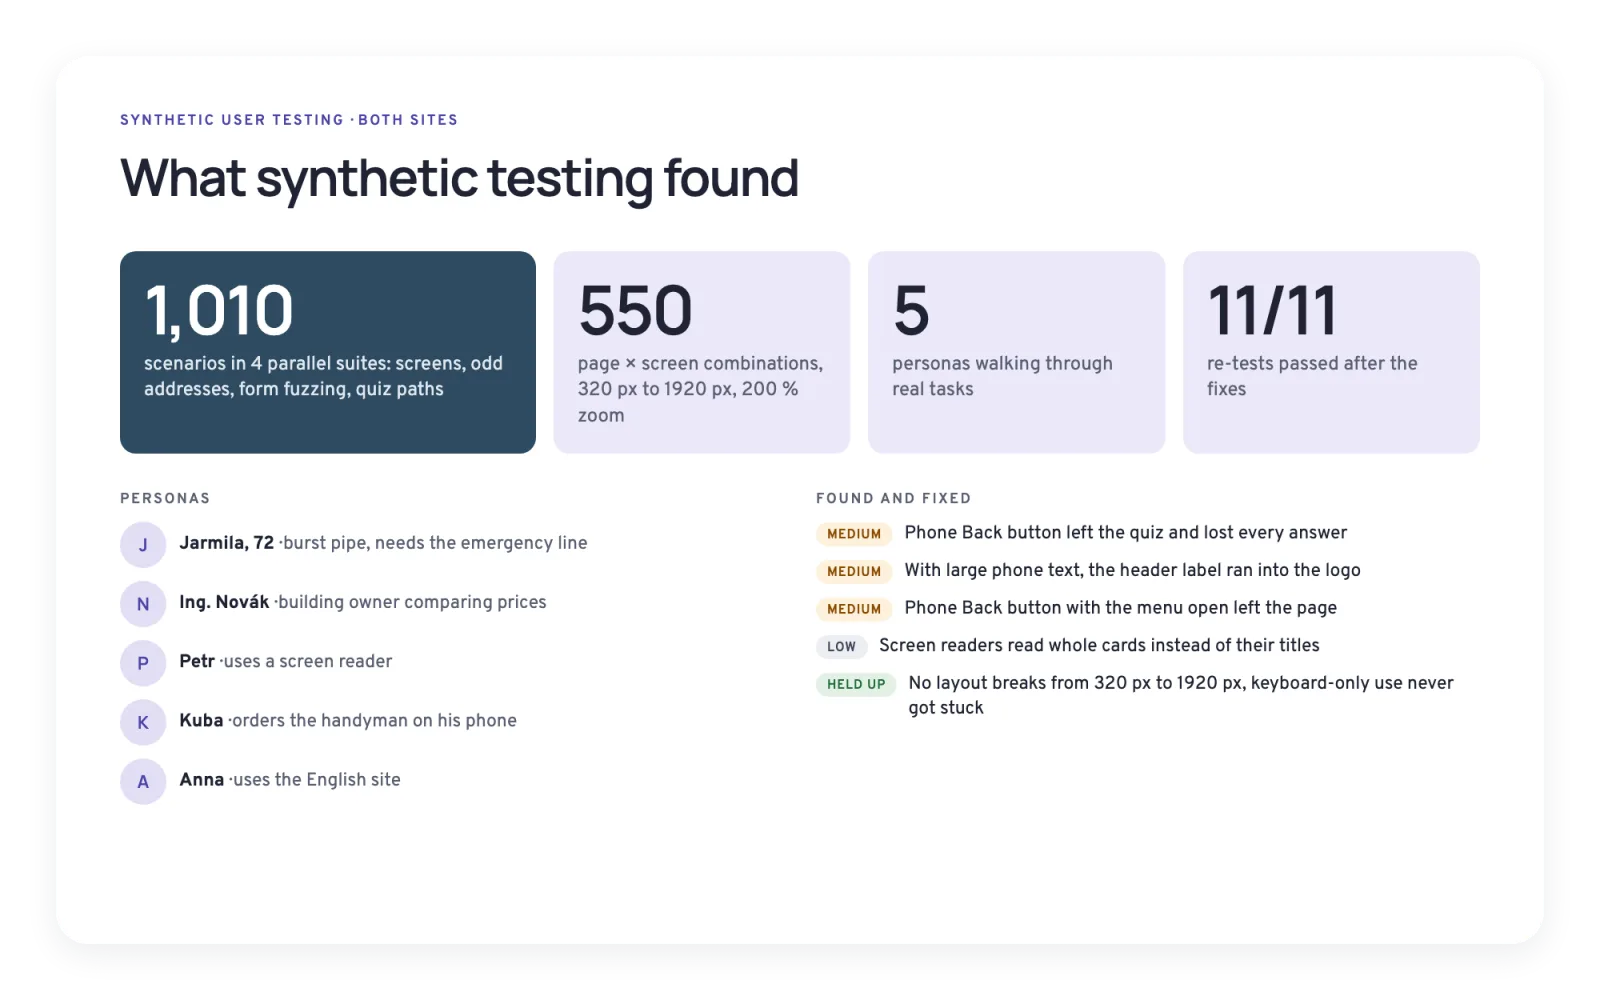
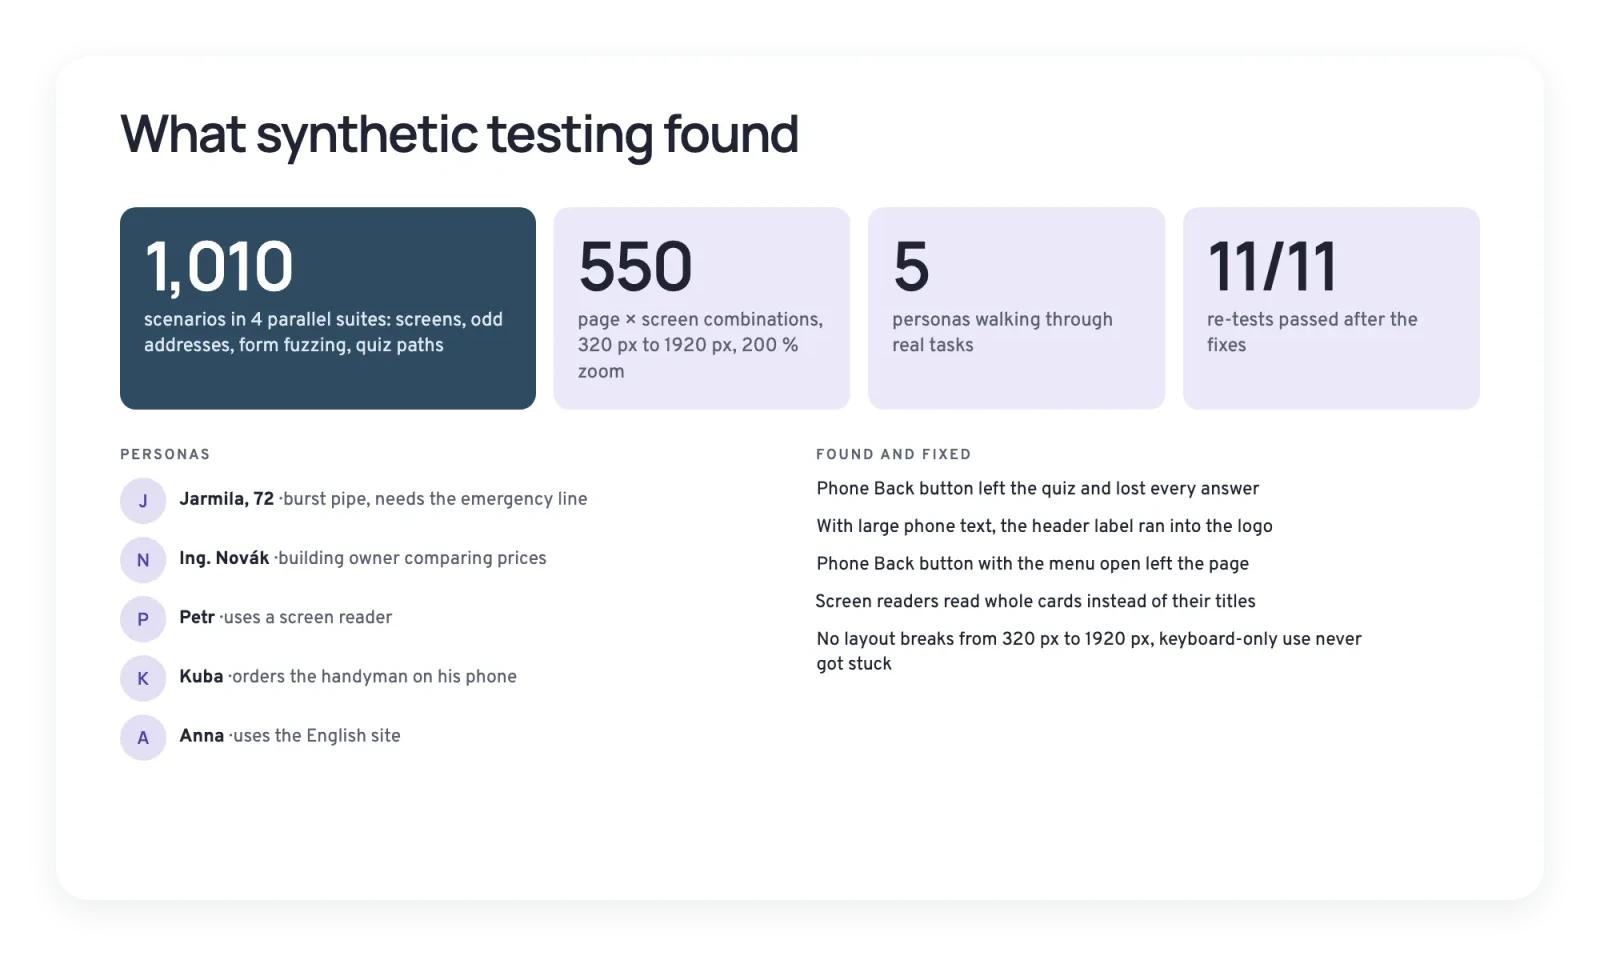
Midoma case study edits, full-size diagrams, wide images at one width
- Midoma: shorter headings, users as their own section, duration "10 days (a rebuild)",
  DOMSYS explained, the logo after the "logo had to stay" line, shorter user-flow intro,
  testing paragraph, heading and AI-picks list removed (the picture says it)
- Testing picture: no severity tags, no eyebrow
- Wide diagrams open at full size on click (click, Esc or Close closes)
- Landscape images in the wide area all fill its full width

diff --git a/src/data/caseStudyContent.ts b/src/data/caseStudyContent.ts
@@ -345,7 +345,7 @@ export const caseStudies: CaseStudy[] = [
       'Midoma is a growing Prague property company with plans to expand into new branches. It needed a website for property owners (midoma.cz), a portal for tenants, and a design system that keeps every future part of the brand consistent, even when new designers join.',
     year: '2026',
     role: 'Solo: UX, design system and development, with Claude Code',
-    duration: '10 days',
+    duration: '10 days (a rebuild)',
     tools: ['Figma', 'Claude Code', 'Astro', 'React', 'Tailwind'],
     heroImage: '/work/images/midoma-hero.webp',
     hero: {
@@ -379,7 +379,6 @@ export const caseStudies: CaseStudy[] = [
         paragraphs: [
           'Midoma used to be called SolidHomes. I created its brand and built its first website in WordPress in 2023, early in my UX journey, which you can read about in the [SolidHomes case study](/work/solidhomes). That website had become a problem. Over time it stopped looking professional, and it needed constant updates. The tipping point came when the company had to change its name because of competition. Instead of putting a new name on an old site, I decided to rebuild it from the ground up.',
           'I didn’t start from zero: I reused the user research, competitor research and stakeholder interviews I had done for the original website, and applied them with better design thinking, more refined skills and a much faster tech stack.',
-          'The website has two kinds of users. Owners of apartment buildings, often families, are choosing a company to trust with their property. Tenants of those buildings want to report a fault, find a phone number or read a notice, quickly. Many of them are older.',
           'I defined the design and business goals I wanted to achieve with the project:',
         ],
         bullets: [
@@ -389,11 +388,18 @@ export const caseStudies: CaseStudy[] = [
         images: ['/work/images/midoma-before-after.webp'],
       },
       {
+        heading: '2 kinds of users: tenants and owners',
+        paragraphs: [
+          'Owners of apartment buildings, often families, are choosing a company to trust with their property. Tenants of those buildings want to report a fault, find a phone number or read a notice, quickly. Many of them are older.',
+        ],
+      },
+      {
         chapter: { title: 'The design system', nav: 'Design system' },
-        heading: 'I started with foundations: every color named by its job',
+        heading: 'Foundations: colors are named by their jobs',
         paragraphs: [
           'One major design constraint I had to take into account was that the logo and its green had to stay. The structure and content of the old site were also working well, so I kept them and focused on the details.',
-          'I defined the basic building blocks: typography, colors and corners. Every color got one job and a name that says what it is, not how it looks: cta for the main action only, form for every form, emergency for emergencies only and tile-domsys for the DOMSYS tile only. This way a new designer knows where a color may go before using it.',
+          { type: 'image', src: '/work/images/midoma-logo-figure.webp', alt: 'The Midoma Správa logo: a green leaf with a white house, next to the name Midoma and the word Správa', small: true },
+          'I defined the basic building blocks: typography, colors and corners. Every color got one job and a name that says what it is, not how it looks: cta for the main action only, form for every form, emergency for emergencies only and tile-domsys for the DOMSYS tile only (DOMSYS is the app where tenants report faults, send requests and see their rent payments). This way a new designer knows where a color may go before using it.',
           { type: 'image', src: '/work/images/midoma-foundations-v2.webp', alt: 'Foundations sheet: Manrope for headings and Overpass for text with the type scale from 48 px page titles to 15 px small text, color swatches named by their job and grouped as brand (interactive, label, cta, text), one job each (form, domsys, emergency, text-secondary) and grounds and tiles (page, tile, tile-domsys, tile-emergency), and corner radii of 12, 20, 32 px and pill' },
         ],
       },
@@ -406,7 +412,7 @@ export const caseStudies: CaseStudy[] = [
         ],
       },
       {
-        heading: 'The system took many rounds, not one straight pass',
+        heading: 'The system took many rounds',
         paragraphs: [
           'Getting to these foundations wasn’t straightforward. I went back and forth on the colors, and experimented with the corner radius until each size had a clear use: 12 px for fields, 20 px for cards and tiles, 32 px for panels and pills for buttons.',
           'The tenant portal alone took about 50 rounds of changes. It had to stay on brand, with the same logo, type and orange call to action, without becoming a copy of midoma.cz, because tenants come with a different job than owners.',
@@ -427,7 +433,7 @@ export const caseStudies: CaseStudy[] = [
               { src: '/work/videos/midoma-tenants.mp4', caption: 'Tenant portal: the fastest way to find information' },
             ],
           },
-          'Here is how a tenant with a question finds the answer on the portal. If they still need the office, every page except emergencies nudges them to write first, through a form, e-mail or the DOMSYS app, rather than call, to lower the load on property managers. The phone number is still on every page, so the switch from calling is easier and tenants can choose. In an emergency, calling comes first:',
+          'User flow: a tenant finding information on the website instead of calling the managers.',
           {
             type: 'image',
             src: '/work/images/midoma-tenant-flow.webp',
@@ -451,24 +457,11 @@ export const caseStudies: CaseStudy[] = [
       },
       {
         chapter: { title: 'Built and tested with AI', nav: 'AI' },
-        heading: 'AI-assisted UX and development: from prompts to rules to a design system',
+        heading: 'My workflow for AI-assisted UX and development',
         paragraphs: [
           'I started by writing a product requirements document (PRD) with Claude in chat. Then I moved to Claude Code, rebuilt the old site one-to-one and redesigned it one prompt at a time. Every decision became a written rule that the next change had to follow, and over time these rules became the design system.',
           'Before building the tenant portal, I also asked Claude to review the plan from three points of view: a tenant in a hurry, a first-time tenant and a manager. Accessibility audits followed every round of changes.',
-        ],
-      },
-      {
-        heading: '1,010 synthetic test scenarios found issues before publishing',
-        paragraphs: [
-          'With almost no real traffic yet, I asked Claude to test the sites the way real people do. It ran 1,010 scenarios in four suites: screens (550 combinations of page and screen size, from 320 to 1920 px and at 200% zoom), odd addresses, form fuzzing (filling the forms with random and invalid input) and quiz paths. On top of that, it walked five personas through real tasks, among them Jarmila, 72, and Petr, who uses a screen reader.',
           { type: 'image', src: '/work/images/midoma-testing.webp', alt: 'What synthetic testing found: issues across screen sizes, forms, the quiz and five personas' },
-          'The AI found the issues, but I decided what to fix:',
-        ],
-        bullets: [
-          'Fixed: the Back button left the quiz and lost every answer.',
-          'Fixed: screen readers read whole cards as one paragraph.',
-          'Not changed: moving the emergency tile higher. I want to test this with real tenants first.',
-          'After the fixes, all 11 re-tests passed.',
         ],
       },
       {

diff --git a/src/pages/CaseStudyPage.tsx b/src/pages/CaseStudyPage.tsx
@@ -33,6 +33,8 @@ const UI_TEXT = {
     duration: 'Duration',
     tools: 'Tools',
     swipe: 'Swipe sideways to see the whole flow',
+    zoom: 'Open full size',
+    close: 'Close',
     prev: 'Previous screen',
     next: 'Next screen',
     restart: 'Start over',
@@ -49,6 +51,8 @@ const UI_TEXT = {
     duration: 'Tid',
     tools: 'Verktyg',
     swipe: 'Svep i sidled för att se hela flödet',
+    zoom: 'Öppna i full storlek',
+    close: 'Stäng',
     prev: 'Föregående skärm',
     next: 'Nästa skärm',
     restart: 'Börja om',
@@ -373,25 +377,57 @@ function ClickThrough({ block, ui }: { block: Extract<ParagraphBlock, { type: 'c
   )
 }
 
+// A detailed diagram, too small to read in the text column: clicking it opens
+// it at full size over the page (a native <dialog>: Esc, the close button or a
+// click anywhere, the diagram included, closes it, and focus returns to it).
+function ZoomableDiagram({ src, alt, ui }: { src: string; alt: string; ui: UiText }) {
+  const dialog = useRef<HTMLDialogElement>(null)
+  return (
+    <div className={WIDE}>
+      <div className="-mx-6 overflow-x-auto px-6 md:mx-0 md:px-0">
+        <button
+          type="button"
+          onClick={() => dialog.current?.showModal()}
+          aria-label={`${ui.zoom}: ${alt}`}
+          className="group relative mx-auto block w-max cursor-zoom-in rounded-2xl focus-visible:outline-2 focus-visible:outline-offset-4 focus-visible:outline-ink md:w-full"
+        >
+          <img src={src} alt="" loading="lazy" decoding="async" className="w-[900px] max-w-none md:w-full" />
+          <span className="absolute right-3 top-3 rounded-full bg-ink/80 px-3 py-1.5 text-sm font-medium text-white opacity-90 transition-opacity group-hover:opacity-100">
+            {ui.zoom}
+          </span>
+        </button>
+      </div>
+      <p className="mt-2 text-center text-sm text-neutral-500 md:hidden">{ui.swipe}</p>
+      <dialog
+        ref={dialog}
+        onClick={() => dialog.current?.close()}
+        className="m-0 h-dvh max-h-none w-screen max-w-none overflow-auto bg-ink/95 p-4 pt-16 backdrop:bg-ink/60 md:p-10 md:pt-20"
+      >
+        <button
+          type="button"
+          onClick={() => dialog.current?.close()}
+          className="fixed right-4 top-4 z-10 rounded-full bg-white px-4 py-2 text-sm font-semibold text-ink shadow md:right-8 md:top-8"
+        >
+          {ui.close} ✕
+        </button>
+        <img src={src} alt={alt} className="mx-auto w-full min-w-[900px] max-w-[1600px] cursor-zoom-out rounded-2xl bg-white" />
+      </dialog>
+    </div>
+  )
+}
+
 function ParagraphContent({ block, studyTitle, ui }: { block: ParagraphBlock; studyTitle: string; ui: UiText }) {
   if (typeof block === 'string') {
     return <p className="text-base leading-relaxed text-neutral-700">{withLinks(block)}</p>
   }
   if (block.type === 'image') {
     if (block.wideDiagram) {
-      return (
-        <div className={WIDE}>
-          <div className="-mx-6 overflow-x-auto px-6 md:mx-0 md:px-0">
-            <img src={block.src} alt={block.alt ?? studyTitle} loading="lazy" decoding="async" className="mx-auto w-[900px] max-w-none md:max-h-[85vh] md:w-auto md:max-w-full" />
-          </div>
-          <p className="mt-2 text-center text-sm text-neutral-500 md:hidden">{ui.swipe}</p>
-        </div>
-      )
+      return <ZoomableDiagram src={block.src} alt={block.alt ?? studyTitle} ui={ui} />
     }
     return block.small ? (
       <ImageRow srcs={[block.src]} alt={block.alt ?? studyTitle} maxHeight={360} />
     ) : (
-      <ImageRow srcs={[block.src]} alt={block.alt ?? studyTitle} className={WIDE} />
+      <ImageRow srcs={[block.src]} alt={block.alt ?? studyTitle} className={WIDE} fill />
     )
   }
   if (block.type === 'clickThrough') return <ClickThrough block={block} ui={ui} />
@@ -1027,6 +1063,7 @@ export default function CaseStudyPage() {
                   alt={`${study.title} - ${section.heading} screenshot`}
                   maxHeight={section.imagesMaxHeight}
                   className={WIDE}
+                  fill
                 />
               )}
               {section.carousel && (

diff --git a/src/components/ImageRow.tsx b/src/components/ImageRow.tsx
@@ -23,6 +23,7 @@ export default function ImageRow({
   alt = '',
   maxHeight: maxHeightProp,
   className = '',
+  fill = false,
 }: {
   srcs: string[]
   alt?: string
@@ -30,6 +31,10 @@ export default function ImageRow({
   // for a specific image that should render smaller than the default.
   maxHeight?: number
   className?: string
+  // In the wide area: a landscape row always fills the full width, so every
+  // wide image on a page lines up at the same width. Height limits are
+  // ignored for it; tall rows (phone screens) keep them.
+  fill?: boolean
 }) {
   // Without an explicit ceiling, images may grow with the screen (up to
   // 80% of its height), so a full-width row on a big monitor isn't
@@ -86,7 +91,7 @@ export default function ImageRow({
     const totalGap = GAP * (srcs.length - 1)
     const sumRatios = ratios.reduce((sum, r) => sum + r, 0)
     const fitHeight = (containerWidth - totalGap) / sumRatios
-    height = Math.min(maxHeight, fitHeight, naturalHeight)
+    height = fill && sumRatios >= 1 ? fitHeight : Math.min(maxHeight, fitHeight, naturalHeight)
   }
 
   return (
